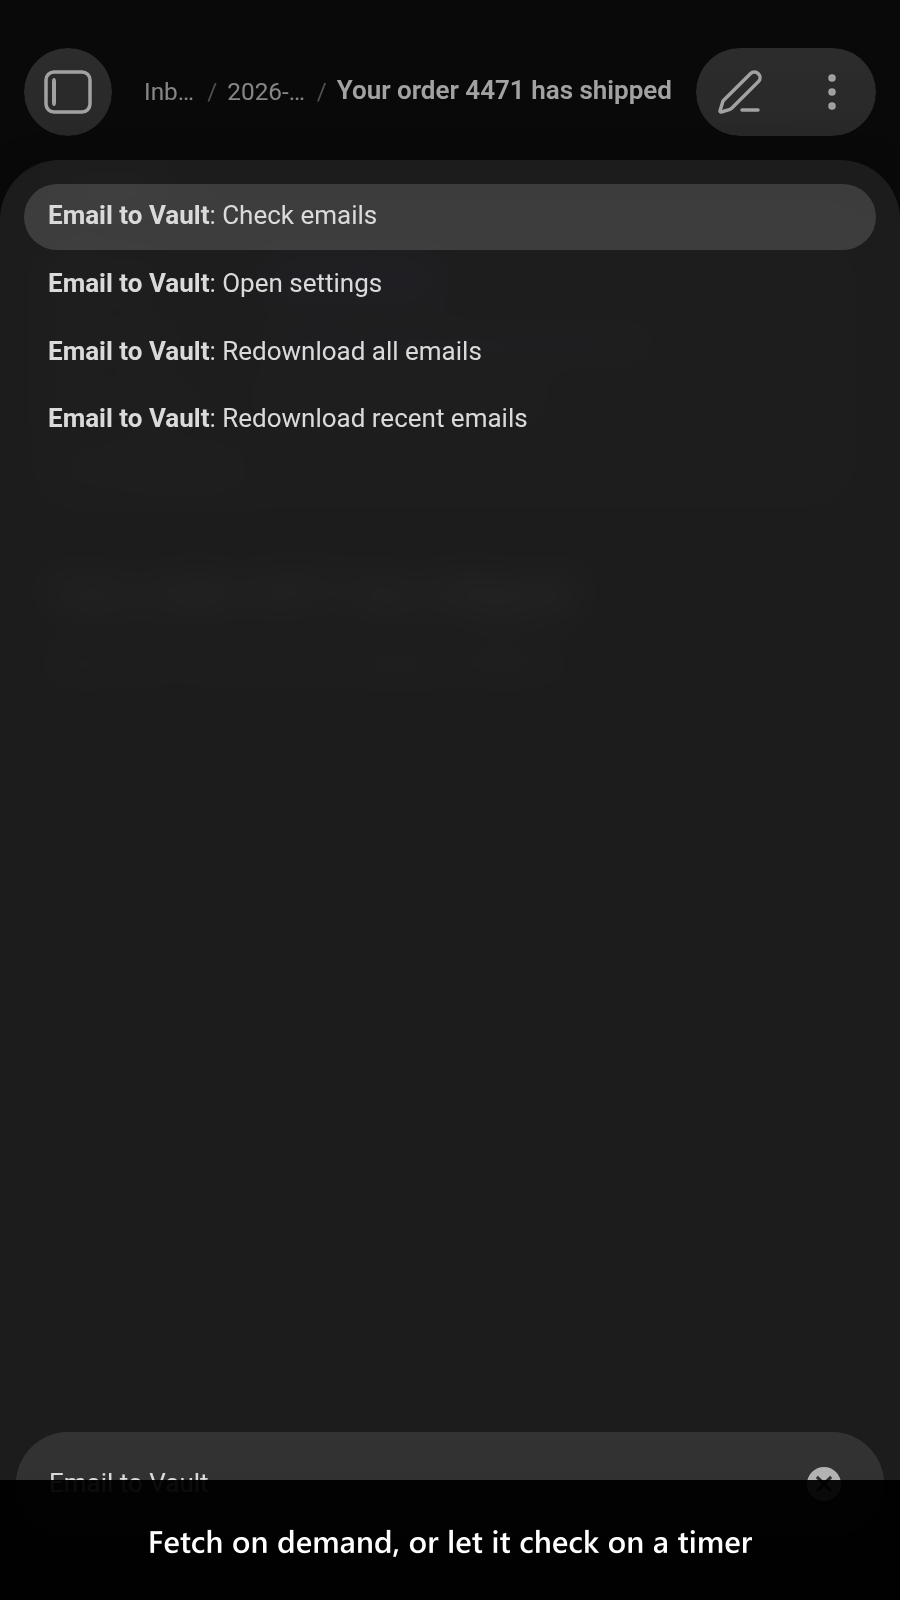
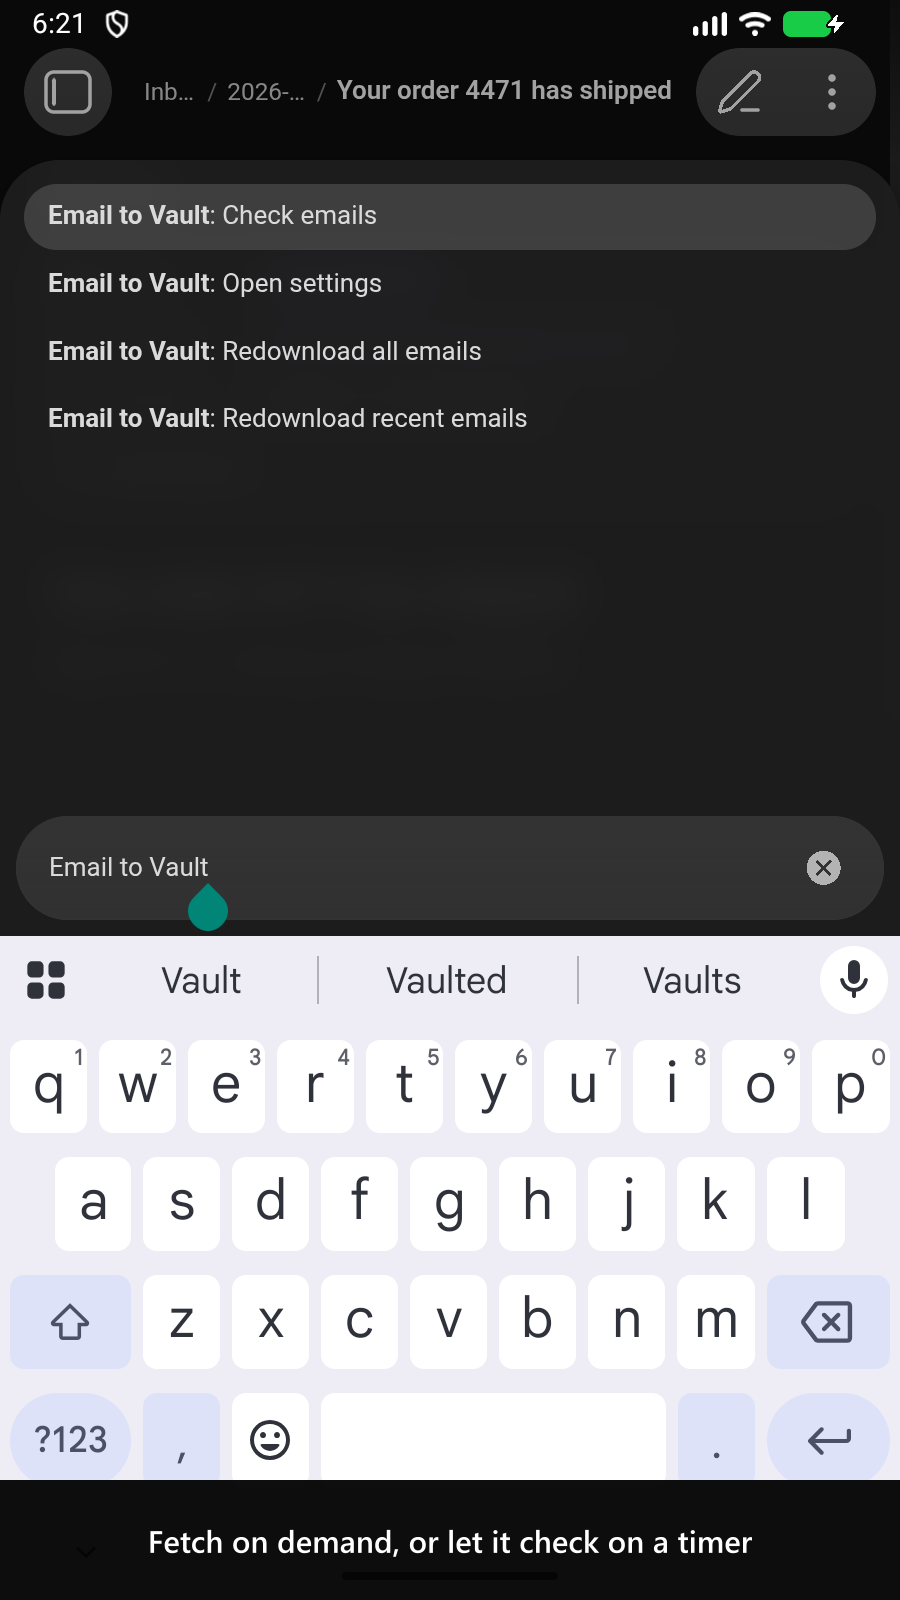
test(integration): take the palette frame with the soft keyboard up
The command-palette frame is a focused search field over nothing: the page
capture it used cannot show a keyboard, because it drives Appium in the
WebView context and the IME is a system window rather than part of the page.
So most of the frame was an empty band where a phone shows a keyboard, and the
caption band - drawn across the bottom of the image - landed on the field
itself.

That frame now comes from the device framebuffer with the keyboard raised
first. Measured as the largest contiguous flat row-run it falls from 62.8% to
24.3%, and all four commands plus the typed query are legible, which is what
the caption promises. Both halves of raising it come from the harness: the AVD
is built with a hardware keyboard attached, so Android suppresses the
on-screen one until the device setting is flipped, and a WebView will not ask
for an IME on programmatic focus alone, so it takes a real touch on the field.
The setting is restored exactly afterwards, including the case where it had
never been written.

The swap is per SHOT, not per suite. The four frames that show a note, its
attachments or the settings tab have no focused field - a real phone would
show no keyboard there either - so they keep the page capture and stay
byte-reproducible. Only the palette frame is modified here, and it is the one
that gives up reproducibility, since the status-bar clock and the battery
indicator are now in it.

diff --git a/src/screenshots.android-capture.integration.test.ts b/src/screenshots.android-capture.integration.test.ts
@@ -35,10 +35,14 @@ import process from 'node:process';
 import { createTransport } from 'nodemailer';
 import { sleep as sleepInNode } from 'obsidian-dev-utils/async';
 import {
+  captureDeviceScreenshot,
   captureObsidianScreenshot,
   evalInObsidian,
   labelScreenshot,
-  readPngDimensions
+  raiseSoftKeyboard,
+  readPngDimensions,
+  resolveEmulatorDeviceId,
+  withSoftKeyboardEnabled
 } from 'obsidian-integration-testing';
 import { getTemporaryVault } from 'obsidian-integration-testing/vitest-global-setup-plugin';
 import sharp from 'sharp';
@@ -134,7 +138,25 @@ const IMAGES_DIRECTORY = join(process.cwd(), 'images', 'screenshots');
  */
 let mailboxAddress = '';
 
+/**
+ * The AVD the frames are taken on, matched by name.
+ *
+ * Never the first device `adb devices` lists: a physical phone is routinely plugged into the same
+ * machine, and the shared AVD the cross-platform suites drive is a different size.
+ */
+const AVD_NAME = 'obsidian_screenshots';
+
+/**
+ * Obsidian's command palette input, read off this suite's own palette helper rather than assumed: the
+ * palette renders `.prompt input`, which is not the `.prompt-input` a suggester renders.
+ */
+const PALETTE_INPUT_SELECTOR = '.prompt input';
+
+let deviceId = '';
+
 beforeAll(async () => {
+  deviceId = await resolveEmulatorDeviceId({ avdName: AVD_NAME });
+
   const vault = getTemporaryVault();
 
   vault.populate({
@@ -231,7 +253,7 @@ describe('mobile store screenshots', () => {
   it('5 - fetch now, or leave it to the timer', async () => {
     const commandNames = await openCommandPalette('Email to Vault');
     expect(commandNames.join('\n')).toContain('Check emails');
-    await shoot(5, 'Fetch on demand, or let it check on a timer');
+    await shootWithSoftKeyboard(5, 'Fetch on demand, or let it check on a timer');
   });
 });
 
@@ -691,18 +713,47 @@ async function sendEmail(params: SendEmailParams): Promise<void> {
 async function shoot(index: number, caption: string): Promise<void> {
   const captured = await captureObsidianScreenshot({ vaultPath: vaultPath() });
 
-  // The AVD is 900x1600, so the device frame IS the store's size. Asserting it
-  // Here is what keeps that true: run this against any other AVD and it fails
-  // Loudly instead of quietly shipping an off-spec image.
-  expect(readPngDimensions(captured)).toStrictEqual({
-    heightInPixels: HEIGHT_IN_PIXELS,
-    widthInPixels: WIDTH_IN_PIXELS
+  await writeFrame(index, caption, captured);
+}
+
+/**
+ * Raises the soft keyboard, captures the DEVICE, and writes the frame.
+ *
+ * For a shot whose subject is a focused field. `captureObsidianScreenshot` cannot show a keyboard: it
+ * drives Appium in the WebView context, so it photographs the page, and the IME is a system window that
+ * is not part of the page — which left such a frame as a field over a large empty band, with the caption
+ * band landing on the field and clipping the typed text.
+ *
+ * Two things are needed and both belong to the harness rather than here: the AVD is built with a hardware
+ * keyboard attached, so Android suppresses the on-screen one until `withSoftKeyboardEnabled` lifts that
+ * and puts the setting back exactly — including putting back a setting that had never been written, which
+ * takes a delete rather than a write; and a WebView will not ask for an IME on programmatic focus alone,
+ * so `raiseSoftKeyboard` lands a real touch on the field and then proves geometrically that it lifted,
+ * because nothing in the page reports the keyboard.
+ *
+ * The trade, which applies only to the shots that switch: a device capture is **not** byte-reproducible,
+ * because the status-bar clock and the battery indicator are in it. A shot with no focused field keeps
+ * {@link shoot} and stays reproducible — a real phone shows no keyboard there either, so raising one
+ * would make that frame less true rather than more.
+ *
+ * @param index - The 1-based listing position.
+ * @param caption - The caption drawn across the bottom of the frame.
+ */
+async function shootWithSoftKeyboard(index: number, caption: string): Promise<void> {
+  const captured = await withSoftKeyboardEnabled({
+    async callback() {
+      await raiseSoftKeyboard({
+        deviceId,
+        inputSelector: PALETTE_INPUT_SELECTOR,
+        vaultPath: vaultPath()
+      });
+
+      return await captureDeviceScreenshot({ deviceId });
+    },
+    deviceId
   });
 
-  const labeled = await labelScreenshot(captured, { text: caption });
-
-  mkdirSync(IMAGES_DIRECTORY, { recursive: true });
-  writeFileSync(join(IMAGES_DIRECTORY, `screenshot-mobile-${String(index)}.png`), labeled);
+  await writeFrame(index, caption, captured);
 }
 
 /**
@@ -743,4 +794,26 @@ async function waitForNoteUnder(folder: string): Promise<string> {
   }
 
   throw new Error(`No note appeared under: ${folder}`);
+}
+
+/**
+ * Asserts the frame is the store size, captions it, and writes it out.
+ *
+ * @param index - The 1-based listing position.
+ * @param caption - The caption drawn across the bottom of the frame.
+ * @param captured - The raw PNG, from either capture route.
+ */
+async function writeFrame(index: number, caption: string, captured: Uint8Array): Promise<void> {
+  // The AVD is 900x1600, so the device frame IS the store's size. Asserting it
+  // Here is what keeps that true: run this against any other AVD and it fails
+  // Loudly instead of quietly shipping an off-spec image.
+  expect(readPngDimensions(captured)).toStrictEqual({
+    heightInPixels: HEIGHT_IN_PIXELS,
+    widthInPixels: WIDTH_IN_PIXELS
+  });
+
+  const labeled = await labelScreenshot(captured, { text: caption });
+
+  mkdirSync(IMAGES_DIRECTORY, { recursive: true });
+  writeFileSync(join(IMAGES_DIRECTORY, `screenshot-mobile-${String(index)}.png`), labeled);
 }

diff --git a/AGENTS.md b/AGENTS.md
@@ -44,3 +44,37 @@
 
 - **Layout tables are unwrapped; only flat data tables survive**: Before converting to markdown, the plugin classifies each `<table>`. Layout tables (marked `role="presentation"`, lacking `<th>` header cells, or containing a nested `<table>`) are unwrapped — their cell content is preserved but the tabular structure is dropped — because Obsidian's turndown cannot handle nested layout tables (produces garbage escaped pipes). A table is only kept intact as a real markdown table when it is a genuine **data table**: not `role="presentation"`, has at least one `<th>`, and contains no nested `<table>`. A data table nested inside a layout table is preserved (the outer layout wrapper is unwrapped around it). Remaining limitation: a data table that itself contains a nested `<table>` is treated as a layout container and unwrapped, so its structure is lost.
 - **"Mark emails as seen" off uses a date bookmark, which can drop same-second mail**: When `shouldMarkEmailsAsSeen` is off (and `shouldDeleteSeenEmails` is off), the plugin does not flag emails as seen on the server. Instead it tracks already-imported mail with a single `lastProcessedEmailTimestamp` bookmark and, on each poll, imports only emails whose `createdAt` is strictly greater than the bookmark. The first poll in this mode (empty bookmark) falls back to seen-based selection so it does not re-import the whole mailbox, then initializes the bookmark to the newest existing email's `createdAt`. Consequences: an email arriving in the exact same second as the last processed one may be skipped; the single bookmark is shared across providers, so switching provider (IMAP ↔ Mail.tm) can skip or re-import until the bookmark is caught up. This trade-off was chosen deliberately over a per-message processed-ID set.
+
+## Testing notes
+
+### The mobile screenshot capture suite
+
+The mobile frames are captured by **two different routes**, and which route a frame takes is a decision
+about that frame rather than a style choice:
+
+- **A frame whose subject is not a focused field captures the PAGE** (`captureObsidianScreenshot`), which
+  is byte-reproducible: no status bar and no clock, so re-capturing an unchanged frame leaves no diff. A
+  real phone shows no keyboard on such a screen either, so raising one would make the frame *less* true.
+- **A frame whose subject IS a focused field captures the DEVICE** (`captureDeviceScreenshot`), with the
+  soft keyboard raised first. A page capture cannot show a keyboard: it drives Appium in the WebView
+  context, so it photographs the page, and the IME is a system window that is not part of the page. That
+  left the command-palette frame as a search field over a large empty band, with the caption band — drawn
+  across the bottom of the image — landing on the field and clipping the typed text. **The cost is that
+  the switched frame is no longer byte-reproducible**, since the status-bar clock and the battery
+  indicator are in it. Do not "fix" that churn by putting it back on the page capture, and do not switch
+  the other frames over for consistency.
+- **Raising the keyboard takes TWO things**, which is why both belong to `obsidian-integration-testing`
+  rather than being copied in here. The AVD is built with a hardware keyboard attached, so Android
+  suppresses the on-screen one entirely — `withSoftKeyboardEnabled` lifts that for the duration of a shot
+  and restores the device exactly, including restoring a setting that had never been written, which takes
+  a delete rather than a write. And a WebView will not ask for an IME on programmatic focus alone:
+  `raiseSoftKeyboard` lands a real touch on the field and then proves geometrically that it lifted,
+  because nothing in the page reports the keyboard — `innerHeight`, `visualViewport` and the modal
+  container all keep their full height with it shown. A failure writes the device framebuffer and the
+  device's own input-method state to `dist/screenshots/`, because a bare assertion failure here is
+  unreadable.
+- **A passing lift check is not the same as a good frame.** The check asks whether the FIELD moved clear
+  of the bottom; it cannot tell you the keyboard covered the thing the shot is evidence for. So look at a
+  switched frame, every time, rather than trusting the measurement alone.
+- **The field it touches is read off the suite, not assumed.** The command palette renders
+  `.prompt input`, which is not the `.prompt-input` a suggester renders.
